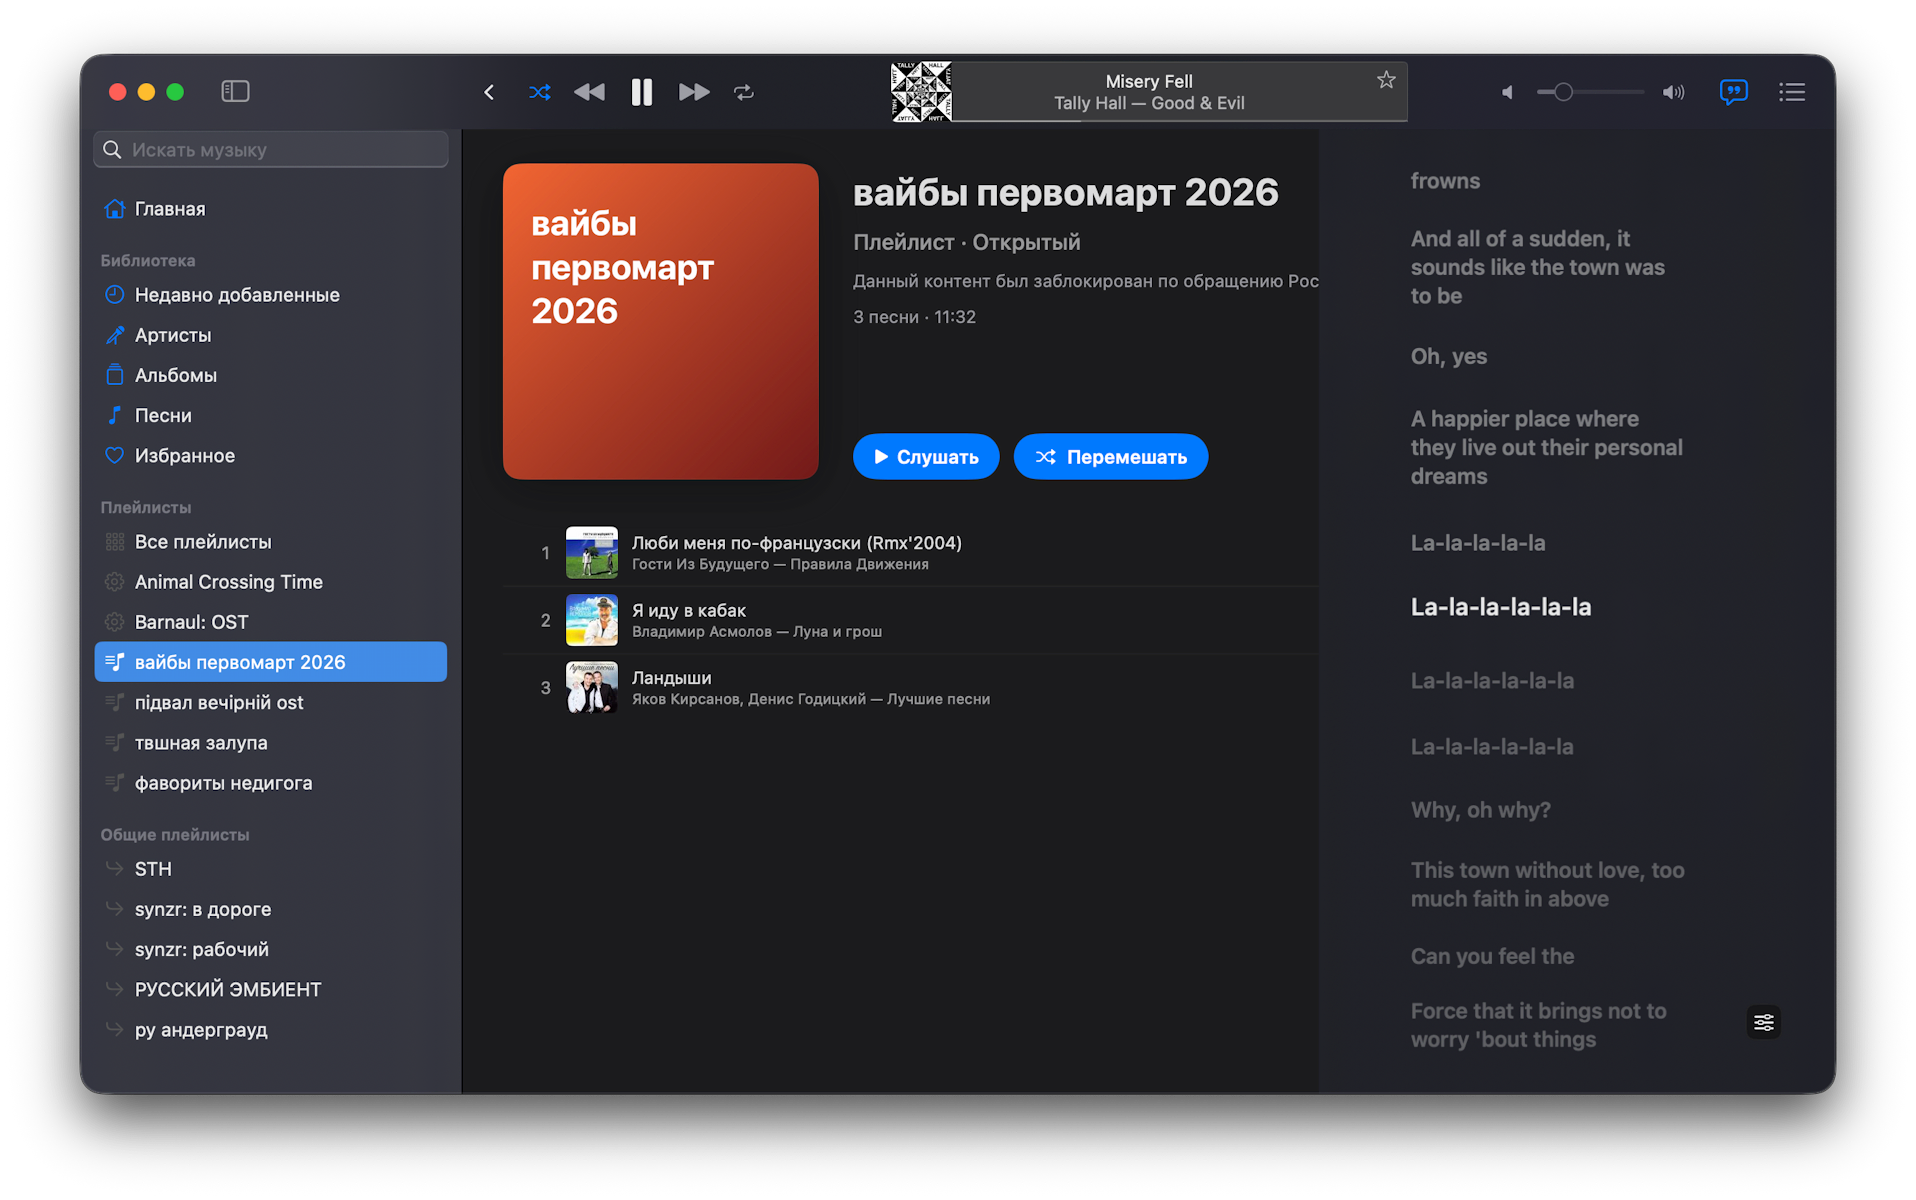
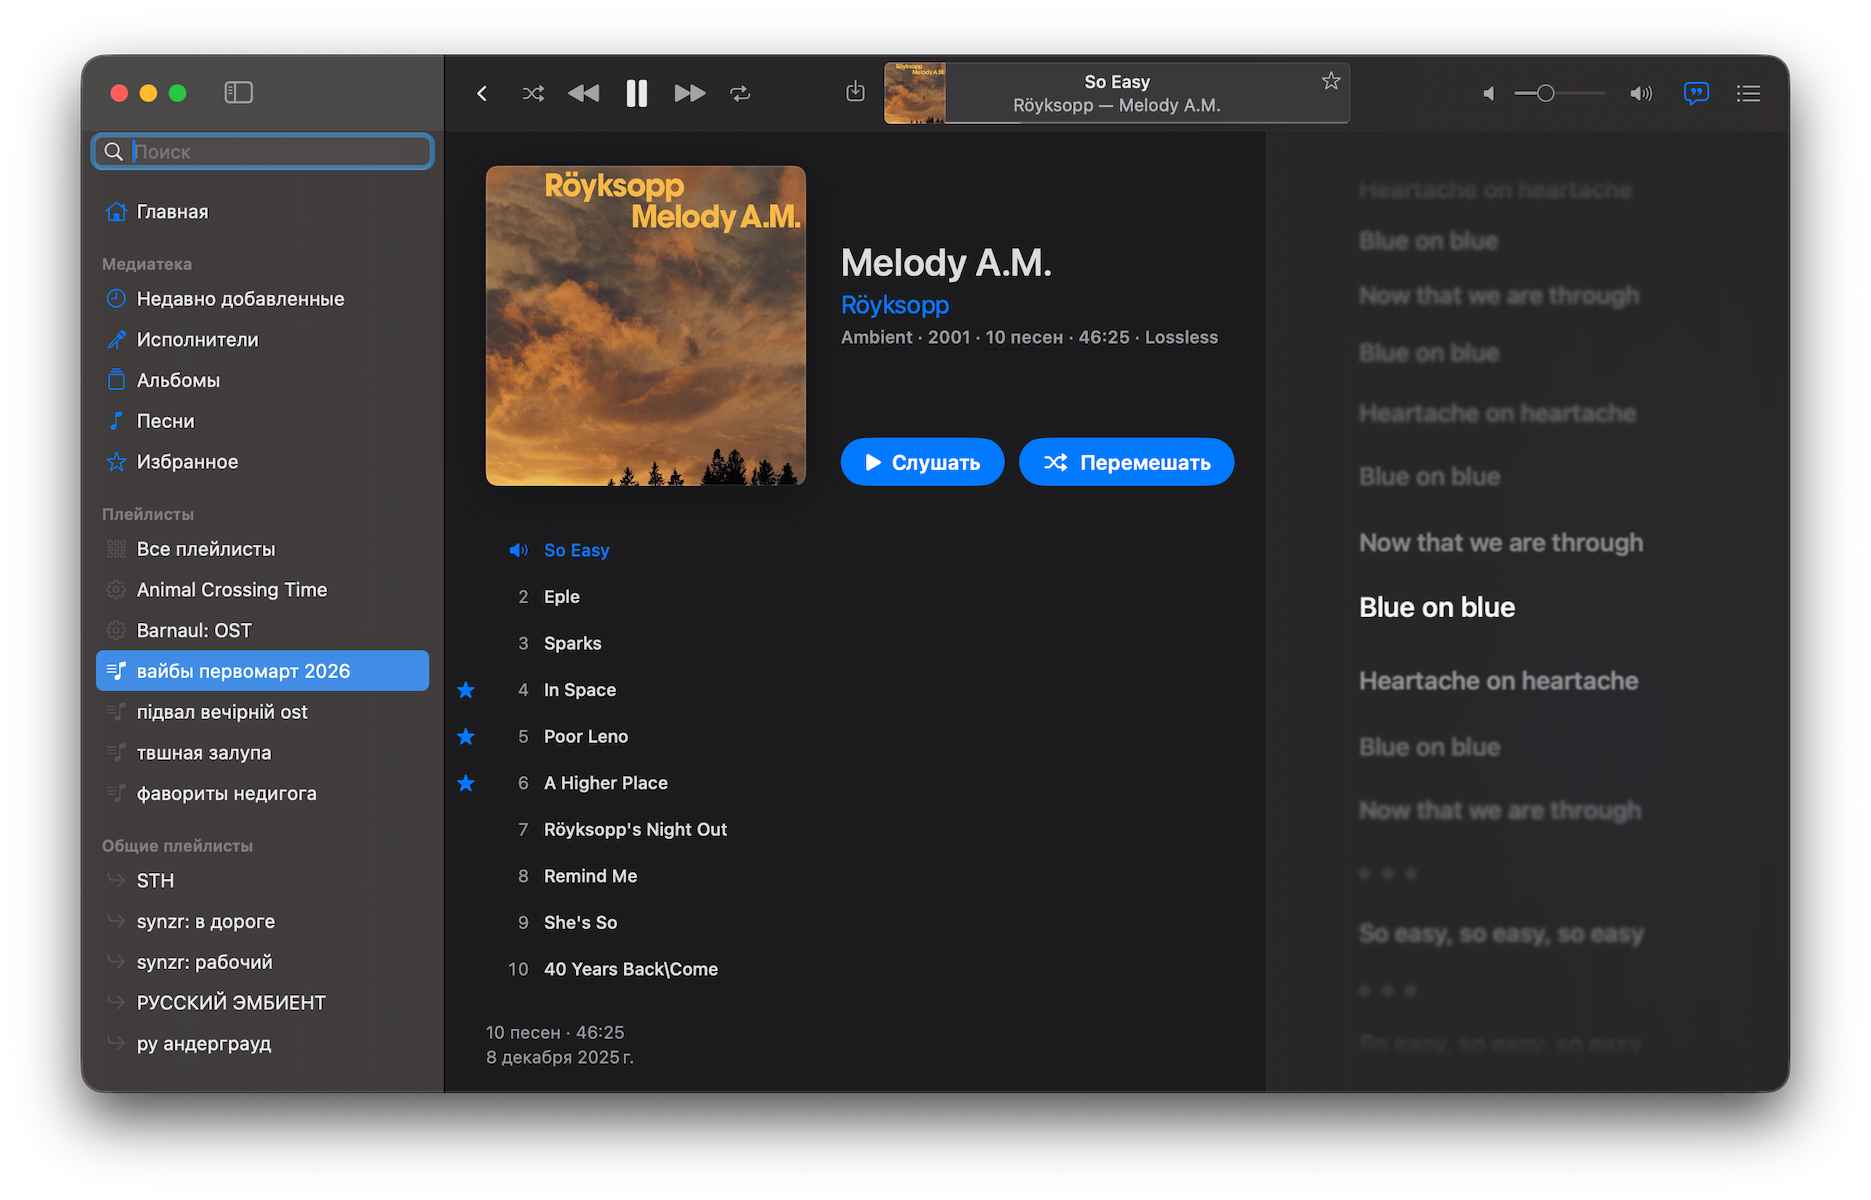
docs(readme): update preview assets and feature list

diff --git a/README.md b/README.md
@@ -6,7 +6,7 @@
 
 Экспериментальный "Apple Music" ahh клиент написаный слопом за 0 тугриков. Работает с [Navidrome][1] и [Subsonic][2]-совместимыми серверами. Приложение написано на SwiftUI, работает с macOS 14.4. Имеет риск адекватной работы.
 <p align="center">
-  <img src=".assets/preview1.webp" alt="Интерфейс">
+  <img src=".assets/preview1.webp" alt="Интерфейс. Карточка альбома, текст">
   <h5>ну вроде норм я попользовался</h5>
 </p>
 
@@ -17,20 +17,26 @@
 
   <ul>
     <br>
-    <li>Кушает ~200 мегабайт ОЗУ;</li>
+    <li>Кушает ~200-400 мегабайт ОЗУ;</li>
     <li>Кэширование аудио и обложек;</li>
     <li>Поддержка транскодинга;</li>
-    <li>Оффлайн-режим (не готов);</li>
+    <li>Оффлайн-режим;</li>
     <li>Синхронизированный текст (и extended LRC тоже);</li>
     <li>Создание нескучных плейлистов (и смарт-плейлистов);</li>
     <li>Поддержка Discord RPC;</li>
     <li>Crossfade и поддержка ReplayGain;</li>
     <li>Мини-плеер;</li>
+    <li>Серверные функции (quick scan, менеджер ссылок);</li>
     <li>Слоп.</li>
   </ul>
 </div>
 
 <br clear="all">
+
+<p align="center">
+  <img src=".assets/preview3.webp" alt="Интерфейс. Карточка альбома">
+  <h5>даже вроде не лагает и бобами не отдаёт</h5>
+</p>
 
 ## Сборка
 
@@ -58,7 +64,7 @@ brew install nasm meson ninja cmake pkg-config wget git
 Для release-версии:
 
 ```sh
-./scripts/build-app.sh --release # или: make release
+./scripts/build-app.sh --release [--no-test --no-lint] # или: make release
 ```
 
 Сборка zip-архива для релиза (в `dist/`):
